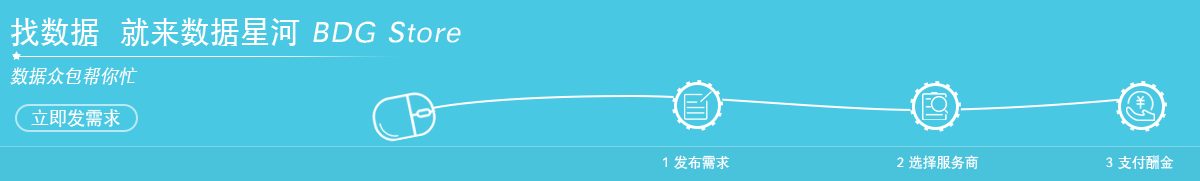
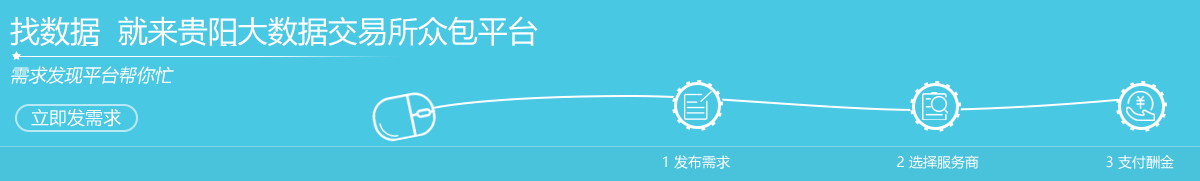
调整bug0516v3

diff --git a/hookah-website/src/main/resources/views/auth/company_auth_init.html b/hookah-website/src/main/resources/views/auth/company_auth_init.html
@@ -29,53 +29,114 @@ var htmlPart = {
                         请认真阅读如下协议，并拉至底部勾选‘阅读并同意’！
                     </div>
                     <div class="agreement-text" style="height: 300px;overflow-y: auto;width: 1100px;margin: 0 auto;padding: 35px 0;">
-                        <h2 class="agreement-title">贵阳大数据交易所用户注册协议</h2>
-                        <h3>一、总则</h3>
-                        <p>1.1　用户应当同意本协议的条款并按照页面上的提示完成全部的注册程序。用户在进行注册程序过程中点击"同意"按钮即表示用户与贵阳大数据交易所达成协议，完全接受本协议项下的全部条款。</p>
-                        <p>1.2　用户注册成功后，贵阳大数据交易所将给予每个用户一个用户帐号及相应的密码，该用户帐号和密码由用户负责保管；用户应当对其用户帐号进行的所有的活动和事件负法律责任。</p>
-                        <h3>二、注册信息和隐私保护</h3>
-                        <p>2.1　贵阳大数据交易系统帐号(用户账号)的所有权归贵阳大数据交易所，用户完成注册申请手续后，获得贵阳大数据交易所帐号的使用权。用户应提供及时、详尽及准确的个人资料，并不断更新注册资料，用户提交的个人资料应符合及时、详尽准确的要求。所有原始输入的资料将引用为注册资料。如果因注册信息不真实而引起的问题，并应该等问题的发生所引发的法律后果，贵阳大数据交易所不负任何责任。</p>
-                        <p>2.2　用户不应将其帐号、密码转让或出借予他人使用。如用户发现其帐号遭他人非法使用，应立即通知贵阳大数据交易所。因黑客行为或用户的保管疏忽导致帐号、密码遭他人非法使用，贵阳大数据交易所不承担任何责任。</p>
-                        <p>2.3　贵阳大数据交易所不对外公开或向第三方提供单个用户的注册资料，除非：事先获得用户的明确授权；只有透露用户的个人资料，才能提供用户所要求的产品和服务；根据有关的法律法规要求；按照相关政府主管部门的要求；为维护贵阳大数据交易所的合法权益而进行的必要披露。</p>
-                        <h3>三、使用规则</h3>
-                        <p>3.1　用户在使用贵阳大数据交易所的交易系统时，必须遵守中华人民共和国相关法律法规的规定，用户应同意将不会利用本服务进行任何违法或不正当的活动，包括但不限于下列行为∶</p>
-                        <p>上载、展示、张贴、传播或以其它方式传送含有下列内容之一的信息:</p>
-                        <p>不得为任何非法目的而使用交易系统;</p>
-                        <p>不利用贵阳大数据交易所的交易系统从事以下活动：</p>
-                        <p>未经允许，进入计算机信息网络或者使用计算机信息网络资源的；</p>
-                        <p>未经允许，对计算机信息网络功能进行删除、修改或者增加的；</p>
-                        <p>未经允许，对进入计算机信息网络中存储、处理或者传输的数据和应用程序进行删除、修改或者增加的；</p>
-                        <p>故意制作、传播计算机病毒等破坏性程序的；</p>
-                        <p>其他危害计算机信息网络安全的行为。</p>
-                        <p>3.2　用户违反本协议或相关的服务条款的规定，导致或产生的第三方的任何索赔、要求或损失，包括合理的律师费，用户同意赔偿贵阳大数据交易所及相关的合作公司、关联公司，并使之免受损害。对此，贵阳大数据交易所有权视用户的行为性质，采取包括但不限于删除用户发布信息内容、暂停使用许可、终止服务、限制使用、回收贵阳大数据交易系统帐号、追究法律责任等措施。对恶意注册贵阳大数据交易系统帐号或利用贵阳大数据交易系统帐号进行违法活动、捣乱、骚扰、欺骗、其他用户以及其他违反本协议的行为，贵阳大数据交易所有权收回其帐号。同时，贵阳大数据交易所会视司法部门的要求，协助调查。</p>
-                        <p>3.3　用户不得对本服务任何部分或本服务之使用或获得，进行复制、拷贝、出售、转售或用于任何其它商业目的。</p>
-                        <p>3.4　用户须对自己在使用贵阳大数据交易系统过程中的行为承担法律责任。用户承担法律责任的形式包括但不限于：对受到侵害者进行赔偿，以及在贵阳大数据交易所首先承担了因用户行为导致的行政处罚或侵权损害赔偿责任后，用户应给予贵阳大数据交易所等额的赔偿。</p>
-                        <h3>四、服务内容</h3>
-                        <p>4.1　贵阳大数据交易系统的具体内容由贵阳大数据交易所根据实际情况提供。</p>
-                        <p>4.2　除非本服务协议另有其它明示规定，贵阳大数据交易所所推出的新产品、新功能、新服务，均受到本服务协议之规范。</p>
-                        <p>4.5　贵阳大数据交易所需要定期或不定期地对提供网络服务的平台或相关的设备进行检修或者维护，如因此类情况而造成网络服务（包括收费网络服务）在合理时间内的中断，贵阳大数据交易所无需为此承担任何责任。贵阳大数据交易所保留因维修保养、升级或其它目的不经事先通知的暂停本服务任何部分的权利。</p>
-                        <p>4.6　用户明确同意其使用贵阳大数据交易系统所存在的风险将完全由其自己承担。用户理解并接受下载或通过贵阳大数据交易系统取得的任何信息资料取决于用户自己，并由其承担系统受损、资料丢失以及其它任何风险。贵阳大数据交易所对用户从其系统上得到的任何商品购物服务、交易进程、招聘信息，都不作担保。</p>
-                        <p>4.7　6个月未登录的帐号，贵阳大数据交易所保留关闭的权利。</p>
-                        <p>4.8　贵阳大数据交易所有权于任何时间暂时或永久修改或终止本服务（或其任何部分），而无论其通知与否，贵阳大数据交易所对用户和任何第三人均无需承担任何责任。</p>
-                        <p>4.9　终止服务</p>
-                        <p>用户同意贵阳大数据交易所得基于其自行之考虑，因任何理由，包含但不限于长时间未使用，或贵阳大数据交易所认为您已经违反本服务协议的文字及精神，终止您的密码、帐号或本服务之使用（或服务之任何部分），并将用户在本服务内任何内容加以移除并删除。用户同意依本服务协议任何规定提供之本服务，无需进行事先通知即可中断或终止，用户承认并同意，贵阳大数据交易所可立即关闭或删除用户的帐号及用户帐号中所有相关信息及文件，及/或禁止继续使用前述文件或本服务。此外，用户同意若本服务之使用被中断或终止或用户的帐号及相关信息和文件被关闭或删除，贵阳大数据交易所对用户或任何第三人均不承担任何责任。</p>
-                        <h3>五、其他</h3>
-                        <p>5.1　本协议的订立、执行和解释及争议的解决均应适用中华人民共和国法律。</p>
-                        <p>5.2　如双方就本协议内容或其执行发生任何争议，双方应尽量友好协商解决；协商不成时，任何一方均可向贵阳大数据交易所所在地的人民法院提起诉讼。</p>
-                        <p>5.3　贵阳大数据交易所未行使或执行本服务协议任何权利或规定，不构成对前述权利或权利之放弃。</p>
-                        <p>5.4 不论因任何原因，贵阳大数据交易所向用户承担的一切赔偿、违约责任，均以用户向贵阳大数据交易所支付的会费为限。</p>
-                        <p>5.5　如本协议中的任何条款无论因何种原因完全或部分无效或不具有执行力，本协议的其余条款仍应有效并且有约束力。</p>
-                        <p>请您在发现任何违反本服务协议以及其他任何单项服务的服务条款、贵阳大数据交易所各类公告之情形时，通知贵阳大数据交易所。您可以通过如下联络方式同贵阳大数据交易所联系∶</p>
-                        <p>公司总部地址：贵阳市观山湖区金朱东路互联网金融特区大厦3层</p>
-                        <p>北京运营中心：北京市海淀区永泰庄路1号院6号楼</p>
-                        <p>上海运营中心：上海市徐汇区凤凰园田州路99号9号楼新茂大楼1009室</p>
-
-                        <p>联系电话：0851-88118959</p>
-                        <p>传真号：085188118962</p>
-                        <p>会员入会：702@GBDEx.com</p>
-                        <p>数据销售：6@GBDEx.com</p>
-                        <p>数据购买：9@GBDEx.com</p>
-
+                        <h2 class="agreement-title">贵阳大数据交易所交易规则</h2>
+                        <h3>第一章 总则</h3>
+                        <p>第一条 为规范大数据资源的交易行为，建立良好的交易秩序，维护交易各方合法权益，根据《中华人民共和国网络安全法》、《国务院办公厅关于清理整顿各类交易场所的实施意见》国办发〔2012〕37号）、《山东省人民政府办公厅关于贯彻国办发〔2012〕37号文件进一步做好清理整顿各类交易场所工作的意见》（鲁政办发〔2012〕56号）、《大宗商品电子交易规范》（GB/T18769—2003）、《商品现货市场交易特别规定（试行）》（商务部令2013年第3号）等法律、行政法规、部门规章、规范性文件，制定贵阳大数据交易所交易规则，简称“本规则”。</p>
+                        <p>第二条 本规则由贵阳大数据交易所制定，适用于贵阳大数据交易所（以下简称“交易所”）及交易所发生的交易行为。</p>
+                        <p>第三条 在贵阳大数据交易所全部制度文件中，本交易规则为主体，《用户注册协议》、《交易所产品代理协议》以及由交易所制定的其他规范性文件作补充，相互引用。本交易规则未规定或规定不详事宜而本条前述规范性文件有规定或约定的，从其规定或约定。</p>
+                        <p>第四条 数据交易应遵循公开、公正、公平的原则，遵循诚实信用原则和意思自治原则。</p>
+                        <p>第五条 数据交易各参与方的行为应当遵守法律、行政法规、部门规章及其他规范性文件。</p>
+                        <h3>第二章 交易所</h3>
+                        <p>第六条 交易所接受政府监管和社会监督，交易所应为数据交易提供稳定可靠的运行中心，保障数据的安全，并维护交易市场健康、稳定发展。交易所有义务配合执法部门依法对涉嫌违法数据内容开展调查。</p>
+                        <p>第七条 交易所对数据交易行为具有监督和审核的权利，有权按相关法律法规和本规则及时停止违规交易行为。</p>
+                        <p>第八条 交易所未经授权委托或司法、行政部门要求，不得将托管数据出售或非法提供给他人。</p>
+                        <p>第九条 交易所应当采取技术措施和其他必要措施，妥善保管托管数据，防止第三人未经授权进行截取、搜集、检索、接入，避免发生托管数据泄露、毁损、丢失、篡改等安全事件。</p>
+                        <p>第十条 在发生或者可能发生托管数据泄露、毁损、丢失等隐患时，交易所应当立即采取补救措施。</p>
+                        <p>第十一条 如因不可抗力、意外事件、非法入侵、法律修订、政策变动或司法、行政部门依法要求等造成交易所无法提供服务，交易所不承担责任。</p>
+                        <p>第十二条 交易所应当不断改进各方面条件和服务，方便各方交易。</p>
+                        <h3>第三章 交易主体</h3>
+                        <p>第十三条 参与交易的主体包括数据提供方、数据购买方；数据提供方指直接向本交易所提供大数据产品供应服务的单位，可以是大数据产品的所有权人、数据代理商以及获得大数据产品所有权人授权而可以转让其大数据产品部分或全部权益的其他主体。</p>
+                        <p>第十四条 交易主体应遵守相关法律法规和本规则以及单独签订的其他协议。</p>
+                        <p>第十五条 本交易所的数据提供方只能是单位，包括但不限于法人及其他拥有相应的民事权利能力和民事行为能力的组织（以下统称“单位”）；本交易所的数据购买方只能是单位，个人用户不能从本交易所购买大数据商品。</p>
+                        <p>第十六条 本交易所对数据提供方、数据购买方及数据代理商采用用户制管理。</p>
+                        <p>第十七条 申请成为交易所买方用户须具备以下条件：</p>
+                        <p>（1）提交申请、认证并经交易所审核通过；</p>
+                        <p>（2）遵守中华人民共和国法律法规，具有良好的资信、商誉，无违法违规违约记录；</p>
+                        <p>（3）承认并遵守交易所的交易规则及交易所另行颁布的其他规章制度；</p>
+                        <p>（4）交易所要求具备的其他条件。</p>
+                        <p>第十八条 数据购买方（以下在描述交易时，统称“买方”）应是经交易所审核通过，并自愿遵守本规则的单位用户。成为用户，须按照交易所线上平台相关流程进行注册、认证申请，经交易所审核通过后，正式成为交易所买方用户。</p>
+                        <p>第十九条 只有通过认证的用户，才能参与本交易所的数据商品购买交易。</p>
+                        <p>第二十条 用户享有下列权利：</p>
+                        <p>（1）从事交易及与交易相关的活动；</p>
+                        <p>（2）参加交易所举办的相关培训；</p>
+                        <p>（3）使用交易所的有关设施，享用交易所提供的相关数据信息和有关服务；</p>
+                        <p>（4）按本交易所规定可享有的其他权利。</p>
+                        <p>第二十一条 用户应履行下列义务：</p>
+                        <p>（1）遵守国家法律法规规章政策及交易所的规章制度，接受监督管理，配合交易所的工作；</p>
+                        <p>（2）保护好自己的交易账号和交易密码，并对其交易账号使用所产生的结果负责；</p>
+                        <p>（3）主动、及时地了解交易所发布的信息、公告和各项制度，并承担未尽合理关注的义务给自身造成的损失；</p>
+                        <p>（4）对与交易所之间发生的行为承担法律责任；</p>
+                        <p>（5）爱护交易所网络、设施，维护交易所声誉；</p>
+                        <p>（6）因重大情况发生时应及时报告交易所；</p>
+                        <p>（7）保证提供材料的真实性，并承担相应的法律责任；</p>
+                        <p>（8）B交易所规定应履行的其他义务。</p>
+                        <p>第二十二条 若用户账户或交易业务由他人代理或代为操作，由此产生的法律责任由该账户的所有权人用户自行解决和承担。</p>
+                        <p>第二十三条 买方不得用所购买的数据或服务从事违反法律法规、社会公德和商业道德的活动。数据提供方如设定了关于所出售数据的附加条款，交易达成后购买方应自觉遵守。</p>
+                        <p>第二十四条 数据提供方或数据代理商（以下在描述交易时，统称“卖方”或“供应商”）须在完成前述用户申请认证后，还需要按照交易所关于供应商入驻规定提供相关资料、签订入驻协议、缴纳质保金、接受交易所培训才能成为交易所正式供应商，才能在交易所平台发布商品或服务，进行销售交易。</p>
+                        <p>第二十五条 数据提供方可选择一种交易所支持的交易方式对数据自行定价出售，并按相关交易方式的规定设定数据售卖期限及使用和转让等相关细节。</p>
+                        <p>第二十六条 数据代理商是受数据所有者委托，为其提供数据开发、数据开放服务，并代替数据所有者，在交易所出售委托数据的单位用户。数据代理商在提交数据时应提供上溯至数据所有者给予的授权文件，并遵循数据提供方条款和相关法律法规。</p>
+                        <p>第二十七条 关于数据提供方的更多权利义务规定，由贵阳大数据交易所在《交易所产品代理协议》中约定。</p>
+                        <h3>第四章 交易对象</h3>
+                        <p>第二十八条 本规则所称的交易对象，是指原始或经处理后的数字化信息及其附属的相关服务，包括但不限于企事业单位、社会团体等各类主体所持有或拥有的各类数据及其附属的相关服务，以下简称“交易对象”或“标的物”。</p>
+                        <p>第二十九条 交易数据应是通过合法渠道获取，权利清晰无争议，并具备准确性、真实性，与数据描述一致。</p>
+                        <p>第三十条 禁止交易的数据：</p>
+                        <p>（1）涉及国家秘密和个人信息等受法律保护的数据。</p>
+                        <p>（2）涉及他人知识产权或商业秘密等权利的数据，除非取得权利人明确许可，否则禁止在交易所交易。</p>
+                        <p>（3）涉及以下内容的数据，禁止在交易所交易：</p>
+                        <p>①反对宪法所确定的基本原则的；</p>
+                        <p>②其内容含有违反法律法规规定的数据；</p>
+                        <p>③损害国家荣誉、煽动民族仇恨、民族歧视，破坏民族团结的；</p>
+                        <p>④破坏国家宗教政策，宣扬邪教和封建迷信的；</p>
+                        <p>⑤其他法律法规明确禁止交易的数据。</p>
+                        <h3>第五章 交易</h3>
+                        <p>第三十一条 本规则所称交易，是以货币换取数据资源（数据、产品、服务等）的行为，统称“数据源”。</p>
+                        <p>第三十二条 标准类数据源商品（包括但不限于标准化的可以在购买后直接下载或者调用接口使用的数据源商品）在交易过程中，购买方用户直接通过交易所平台下单、支付、购买、下载或调用使用。</p>
+                        <p>第三十三条 非标准化数据源商品（如定制数据、方案等），购买方原则上需要就该次交易与交易所或销售方或服务提供方签订线下协议；针对标的小的交易，可以不签该线下协议，具体细则由交易所另行制定。</p>
+                        <p>第三十四条 在线数据/服务交易是指以数据调用接口的形式，由卖方向买方提供数据的交易形式或以SaaS方式提供的线上服务的工具、平台和组件等。</p>
+                        <p>第三十五条 卖方有权自主确定交易价格，价格基本单位为数据调用次数或服务期限。</p>
+                        <p>第三十六条 卖方应在数据商品或服务发布到交易所平台时清晰描述待交易的数据调用接口和使用方法，方便买方了解、购买使用。</p>
+                        <p>第三十七条 数据/服务审核：交易所负责对数据/服务可交易化的审核，对满足要求的数据/服务进行上线操作。对不满足要求的数据/服务上线申请，交易所有权要求卖方修正或暂停该数据/服务上线。</p>
+                        <p>第三十八条 离线数据/产品交易是指卖方将数据拷贝到交易所，由交易所转移给买方的数据交易形式，以及采用下载方式离线安装的平台、工具和组件等产品；其他由卖方通过线下完成交易标的服务的交易形式。</p>
+                        <p>第三十九条 交易达成后，卖方将买方购买的服务的部分或全部交由第三方完成的，卖方应当就该第三方完成的工作成果向买方负责。</p>
+                        <p>第四十条 卖方发现买方提供的服务要求不合理的，应当及时通知买方。因买方怠于答复等原因造成卖方损失的，买方应当赔偿损失。买方中途变更定制服务的要求，造成卖方损失的，应当赔偿损失。</p>
+                        <p>第四十一条 卖方为了完成买方所购买的服务而需要买方协助的，买方有协助的义务。买方不履行协助义务致使该交易服务不能完成的，卖方可以催告买方在合理期限内履行义务，并可以顺延履行期限；买方逾期不履行的，卖方可以解除合同。</p>
+                        <p>第四十二条 卖方在工作期间，应当接受买方必要的监督检验。买方不得因监督检验妨碍卖方的正常工作。</p>
+                        <p>第四十三条 交付完成的约定：</p>
+                        <p>（1）标准化数据源下载类商品，以买方成功下载并使用视为交付完成。</p>
+                        <p>（2）API接口调用类商品，以买方成功调用API接口视为交付完成。</p>
+                        <p>（3）其他服务类商品，以买方获得完整服务方案或方案获得正常使用视为交付完成。</p>
+                        <p>第四十四条 在上述商品或服务交付过程中，若买方在所购买数据源商品或服务规定的交付、下载、调用、使用期限内未完成相关下载、调用或使用而导致所购买数据源商品或服务过期而无法使用的，视为放弃，由买方自行承担责任。</p>
+                        <p>第四十五条 卖方交付的工作成果不符合质量要求的，买方可以要求卖方承担修正、重作、减少报酬、赔偿损失等违约责任；卖方不予及时解决的，买方可以向交易所投诉，交易所将协助买方解决。</p>
+                        <p>第四十六条 数据/服务下架：卖方在交易所平台展示待销售的商品或服务需要下架即停止在本交易所销售的，卖方应当提前10个工作日以书面或其他有效方式向交易所申请，交易所清理完该商品或服务未完全交付及客诉相关事宜并同意下架后，卖方方可在交易所平台下架该商品或服务。</p>
+                        <p>第四十七条 数据/服务停止服务：如卖方确有提前关闭数据调用和服务（即停止该数据或服务在所有渠道的使用）的需要，应向交易所及时发送正式书面申请，并做好前期买方的相关后续服务工作，方可停止该数据或服务的服务。</p>
+                        <p>第四十八条 若卖方因为数据/服务下架或停止服务而影响已购买该数据/服务的买方的权益而引起投诉或争议的，卖方应当及时解决，交易所有权使用卖方未结算的费用或质保金先行赔付买方，再与卖方结算。</p>
+                        <h3>第六章 交易监督</h3>
+                        <p>第四十九条 本中心对交易中的下列事项，予以重点监控：</p>
+                        <p>（1）涉嫌违法违规行为；</p>
+                        <p>（2）交易数据受到法律、行政法规、部门规章和规范性文件及本中心业务规则等相关规定限制的行为；</p>
+                        <p>（3）交易数据价格或者交易数据量明显异常的情形；</p>
+                        <p>（4）本交易所认为需要重点监控的其他事项。</p>
+                        <h3>第七章 风险控制</h3>
+                        <p>第五十条 交易所有权根据某一交易数据品种或某一交易账号的异常交易情况，限制相关交易数据品种或交易账号的交易权限。</p>
+                        <p>第五十一条 交易所有权出于安全因素，根据实际情况，对已发起或已确认的要约的买卖双方采取非常措施，来解除相关电子合同，以确保电子交易所的平稳运行和顺利发展。</p>
+                        <p>第五十二条 在交易所内，交易用户对其名下所有账号成交的电子数据买卖，都负有履行相应义务和承担风险的责任。</p>
+                        <p>第五十三条 交易用户在交易所拥有多个交易账号时，交易所有权对其合并计算以控制交易风险。</p>
+                        <h3>第八章 争议处理</h3>
+                        <p>第五十四条 交易所交易双方发生争议时，可选择自行协商解决、由交易所受理解决或向人民法院起诉。</p>
+                        <p>第五十五条 如买卖双方选择交易所解决，即表示同意本交易所有权处理争议，但本交易所非司法机关，对争议的鉴别能力即对处理纠纷的能力有限，因此本交易所不保证争议处理结果符合各方期望，亦不对争议处理结果承担任何责任。</p>
+                        <p>第五十六条 如交易所收到关于交易参与方侵犯第三方所有权、隐私权等的司法或行政处理的程序性或处理结果的通知，交易所将遵照通知执行，并将暂停前述情况所涉及的相关数据交易服务，并冻结该交易的款项，同时协助相关部门处理前述事宜。</p>
+                        <p>第五十七条 数据质量争议：数据提供方应保证数据的准确性、真实性，与数据描述一致，如收到买方关于数据不符合上述描述的投诉，本交易所查证属实后，将停止数据交易服务，卖方应退还数据买方货款，期间产生的其他损失由卖方承担。</p>
+                        <p>第五十八条 交易所所交易数据/服务由卖方定价，对已成交的购买合约，不受数据/服务价格调整的影响。对于卖方约定了数据调用有效期的，卖方可决定在有效期截止时是否继续提供数据调用服务，而不受已完成调用情况的限制。</p>
+                        <p>第五十九条 数据交付中断风险：数据提供方应保证数据提供的及时性和稳定性，特别是实时性数据，如因数据提供方原因所导致的数据调用无效或服务中断，数据提供方有义务及时解决，如对数据买方造成重大损失的，经交易所核实确认，数据提供方应承担全部责任，交易所有义务协调双方妥善处理纠纷。</p>
+                        <p>第六十条 举证责任：交易所可要求交易双方提供包括但不限于下述证据，且本交易所有权单方判断证据的效力：</p>
+                        <p>（1）数据购买方对已交易的数据提出异议的，数据提供方对所出售的数据描述负有证明责任，对数据的说明应根据本交易所的要求提供数据的采集证明等证明文件。</p>
+                        <p>（2）数据购买方明确数据质量有问题，且数据提供方已按照本交易所要求出具本条第（1）款约定证明文件的，买方应当根据交易所要求出具有资质的独立第三方测试机构的证明。</p>
+                        <p>第六十一条 因交易双方约定不清而产生交易纠纷的，撤销该交易，因此导致的损失由交易双方共同承担，具体承担比例由本交易所根据具体情况判定或由争议双方自行协商。</p>
+                        <p>第六十二条 本交易所根据自行判断的结果处理相关争议后，交易任一方不同意本交易所处理结果的，可向交易所所在地有管辖权的人民法院提起诉讼，凭生效的判决书可向交易责任方索赔或者从交易所获得相应的补偿；本交易所进行补偿后，取得相应的代位求偿权。</p>
+                        <h3>第九章 附则</h3>
+                        <p>第六十三条 通过交易所进行数据（产品/服务）提交、发布、交易等，参照本规则的相关规定执行；法律法规另有规定的，从其规定。</p>
+                        <p>第六十四条 在法律允许的范围内，本规则由贵阳大数据交易所负责解释。</p>
+                        <p>第六十五条 本规则自 2017年 6月 9日起施行。</p>
                     </div>
                     <div class="agreement-btn">
                         <label for="check">

diff --git a/hookah-website/src/main/resources/views/pay/cash.html b/hookah-website/src/main/resources/views/pay/cash.html
@@ -55,6 +55,7 @@ var htmlPart = {
 							<input type="hidden" name="orderSn" value="${orderInfo.orderSn}" id="J_orderSn">
 							<ul id="J_MarketinglList"></ul>
 							<ul class="saved-card-list">
+								<%if(moneyBalance >= 0){%>
 								<%for(item in payments){%>
 								<li class="${itemLP.index == 1 ? 'channel-balance' : 'channel-bank'} row-container fn-clear ${itemLP.index == 1 ? 'row-container-focus' : ''}">
 									<div class="row-basic fn-clear">
@@ -104,6 +105,31 @@ var htmlPart = {
 									</div>
 									<div class="row-extra fn-hide"></div>
 								</li>
+								<%}else{%>
+									<%for(var i=0;i<1;i++){%>
+									<li class="channel-balance row-container fn-clear row-container-focus}">
+										<div class="row-basic fn-clear">
+											<label class="channel-label">
+												<span class="channel-tit channel-icon icon banklogo-BALANCE_s"></span>
+												<span class="fn-mr-20">
+													<span class="channel-name">${payments[i].payName}</span>
+													<span class="money-balance">${moneyBalance / 100}</span>
+												</span>
+												<span class="pay-amount">
+													<span class="amount">
+														<span>支付</span>
+														<span class="amount-font-R16">${orderInfo.orderAmount / 100}</span>
+														<span> 元</span>
+													</span>
+													<span></span>
+												</span>
+												<input checked="checked" class="channel-input" value="${item.payCode}" name="apiCode" type="radio">
+											</label>
+										</div>
+										<div class="row-extra fn-hide"></div>
+									</li>
+									<%}%>
+								<%}%>
 								<!--此处注释代码不要删除（含有备用状态）-->
 								<!--<li class="channel-bank row-container fn-clear">-->
 								<!--<div class="row-basic fn-clear">-->

diff --git a/hookah-website/src/main/resources/views/auth/company_auth_init_step2.html b/hookah-website/src/main/resources/views/auth/company_auth_init_step2.html
@@ -54,7 +54,7 @@ var htmlPart = {
 										<div class="inputBoxs">
 											<label><input type="checkbox" name ="fruit" class="margin-right-5 supplier vertical-align-middle" value="1">同时申请成为供应商</label>
 											<p class="supplier-info">
-												申请成为供应商，请点击下载 <a href="http://static.gbdex.bdgstore.cn/supplier/贵阳大数据交易产品合作协议.doc" target="_blank" class="a-color-blue">《贵阳大数据交易产品合作协议》</a>&lt;!&ndash;（签署版）&ndash;&gt;，在提交申请后，按协议模版填写好内容打印、盖章后快递至贵阳大数据交易所平台。
+												申请成为供应商，请点击下载 <a href="http://static.gbdex.bdgstore.cn/supplier/贵阳大数据交易产品合作协议.docx" target="_blank" class="a-color-blue">《贵阳大数据交易产品合作协议》</a>&lt;!&ndash;（签署版）&ndash;&gt;，在提交申请后，按协议模版填写好内容打印、盖章后快递至贵阳大数据交易所平台。
 											</p>
 										</div>
 									</li>

diff --git a/hookah-website/src/main/resources/views/exchange/details.html b/hookah-website/src/main/resources/views/exchange/details.html
@@ -695,7 +695,7 @@ var htmlPart = {
 <div class="qrcode-wraper">
 	<div class="qrcode-wraper-in">
 		<div class="qrcode-title">
-			<span class="grid-left"><img src="/static/images/wxshare/share_logo.png" alt=""></span>
+			<span class="grid-left"><img src="/static/images/logo-sbh.png" alt=""></span>
 			<a href="javascript:void(0)" class="fa fa-close close-share-btn grid-right"></a>
 		</div>
 		<div class="qrcode-content">
@@ -747,7 +747,7 @@ include("/layout/base.html",{headSection:head,htmlSection:htmlPart}){}
 		shareImg = '${goodsDetails.goodsImg}',
 		shareDesc = $('#J_goodsBrief').text(),
 		shareLink = location.href.split('#')[0];
-	    respSample = '${goodsDetails.apiInfo.respSample}';
+	    respSample = ${goodsDetails.apiInfo.respSample};
 	$(document).ready(function(){
         $("meta[property='og:url']").attr('content',shareLink);
         $("meta[property='og:title']").attr('content',shareTitle);

diff --git a/hookah-website/src/main/resources/views/activity/coupon_activity.html b/hookah-website/src/main/resources/views/activity/coupon_activity.html
@@ -67,11 +67,11 @@ var htmlPart = {
               </div>
               <div class="data-list">
                   <h2>二、活动说明</h2>
-                  <p>1、本活动截止到2017年12月20日；</p>
+                  <p>1、本活动截止到2018年12月20日；</p>
                   <p>2、注册后需完成个人/企业认证，才能进行交易，结算时可以选择优惠券使用；</p>
-                  <p>3、领取的优惠券可以在“我的BDG-我的优惠券”中查看；</p>
+                  <p>3、领取的优惠券可以在“用户中心-我的优惠券”中查看；</p>
                   <p>4、每笔订单只能使用一张优惠券；</p>
-                  <p>5、优惠券使用期截止2017年12月31日，过期作废。</p>
+                  <p>5、优惠券使用期截止2018年12月31日，过期作废。</p>
               </div>
           </div>
 

diff --git a/hookah-website/src/main/resources/static/css/auth/user_auth_init.css b/hookah-website/src/main/resources/static/css/auth/user_auth_init.css
@@ -43,7 +43,7 @@
     position: relative;
     float: left;
     width: 33.33%;
-    line-height:60px;
+    line-height:70px;
     font-size:14px;
     color: #ccc;
     text-align: center;
@@ -52,7 +52,7 @@
     content: attr(data-tip);
     display: block;
     position: absolute;
-    top: -9px;
+    top: 0px;
     left: 46%;
     z-index: 10;
     width: 19px;
@@ -65,7 +65,7 @@
 }
 .steps .txt li:after{
     position: absolute;
-    top: 0;
+    top: 9px;
     right: 50%;
     content: "";
     display: block;

diff --git a/hookah-crowd-website/src/main/resources/views/crowdsourcing/crowdsourcing-list.html b/hookah-crowd-website/src/main/resources/views/crowdsourcing/crowdsourcing-list.html
@@ -44,7 +44,7 @@ var htmlPart = {
     </div>
   </div>
   <div class="grid-row ">
-    <div class="crumbs">我的位置：<a href="/crowdsourcing">数据众包</a> - <a href="javascript:void(0)">需求大厅</a></div>
+    <div class="crumbs">我的位置：<a href="/crowdsourcing">需求发现平台</a> - <a href="javascript:void(0)">需求大厅</a></div>
     <div class="listFilter">
       <ul class="crowdsourcing-menu bgc-fff">
         <li>

diff --git a/hookah-website/src/main/resources/static/css/exchange/style.css b/hookah-website/src/main/resources/static/css/exchange/style.css
@@ -2458,7 +2458,7 @@ dl {
 }
 .qrcode-wraper .qrcode-title{
 	height:80px;
-	background: #000;
+	background: #eceaeb;
 	overflow: hidden;
 }
 .qrcode-wraper .qrcode-title span{
@@ -2470,7 +2470,7 @@ dl {
 	width: 12px;
 	height: 12px;
 	margin: 34px 20px 0 0;
-	color: #fff;
+	color: #7f7c7c;
 	line-height: 12px;
 }
 .qrcode-wraper .qrcode-content{

diff --git a/hookah-website/src/main/resources/static/css/base.css b/hookah-website/src/main/resources/static/css/base.css
@@ -24,7 +24,7 @@ html {
 }
 .header-centerbar .logo {
 	width: 207px;
-	margin: 5px 0;
+	margin: 5px 0 0 0 ;
 }
 .header-centerbar .logo a {
 	display: inline-block;

diff --git a/hookah-crowd-website/src/main/resources/static/css/base.css b/hookah-crowd-website/src/main/resources/static/css/base.css
@@ -24,7 +24,7 @@ html {
 }
 .header-centerbar .logo {
 	width: 207px;
-	margin: 5px 0;
+	margin: 5px 0 0 ;
 }
 .header-centerbar .logo a {
 	display: inline-block;
